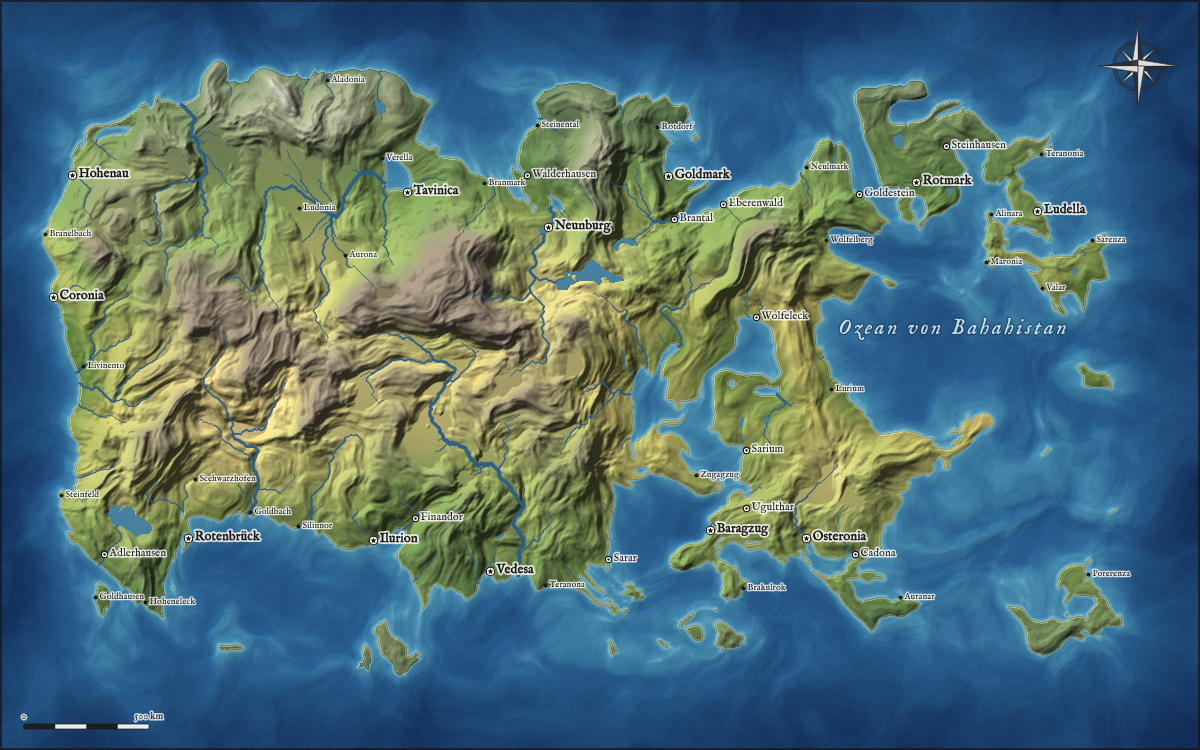
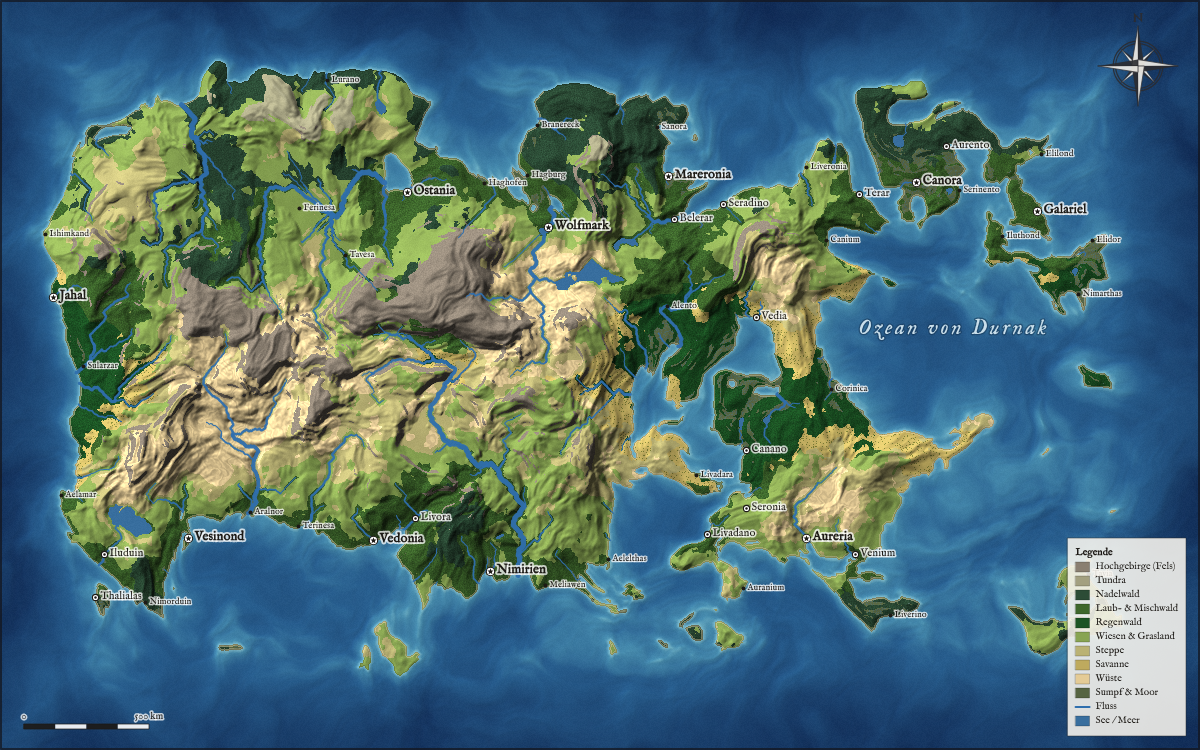
Geografische Karte: Landschaftsformen, kräftigere Flüsse, Legende
- Neue Biom-Einteilung (js/biomes.js): Gletscher, Hochgebirge, Tundra, Nadelwald,
  Laub-/Mischwald, Regenwald, Wiesen, Steppe, Savanne, Wüste, Sumpf
- Eigene Texturen: Baumkronen, Dünen, Wasserlachen, Baumgruppen in der Savanne
- Flussnähe macht Täler grüner (Auwälder); Feuchtigkeit mit mehr Kontrast
- Flüsse breiter und kräftiger, Relief etwas zurückgenommen
- Legende als neue Ebene, Landschaftsform in der Koordinatenanzeige

Claude-Session: https://claude.ai/code/session_01R1p4paFwYMXjgM74tCDT9S

diff --git a/js/render.js b/js/render.js
@@ -3,39 +3,6 @@
   'use strict';
   const FMM = window.FMM;
 
-  // ---------- Biom-Farbtabelle (Temperatur × Feuchtigkeit) ----------
-  const T_ANCH = [0, 0.15, 0.3, 0.5, 0.7, 0.85, 1.0];
-  const BIOME = [
-    // trocken          mittel            feucht
-    [[232, 236, 238], [232, 237, 240], [228, 235, 240]], // Eis
-    [[170, 164, 140], [146, 148, 124], [124, 134, 112]], // Tundra
-    [[166, 158, 114], [104, 120, 82], [60, 86, 58]], // Taiga / Steppe
-    [[186, 172, 114], [120, 144, 80], [62, 102, 52]], // gemäßigt
-    [[208, 186, 128], [158, 158, 90], [66, 108, 48]], // warm
-    [[224, 198, 142], [178, 164, 94], [48, 98, 40]], // heiß
-    [[230, 204, 148], [188, 168, 98], [40, 90, 36]], // tropisch
-  ];
-  const LUT_N = 64;
-  const LUT = new Uint8Array(LUT_N * LUT_N * 3);
-  (function buildLut() {
-    for (let ti = 0; ti < LUT_N; ti++) {
-      const t = ti / (LUT_N - 1);
-      let a = 0;
-      while (a < T_ANCH.length - 2 && t > T_ANCH[a + 1]) a++;
-      const ft = FMM.clamp((t - T_ANCH[a]) / (T_ANCH[a + 1] - T_ANCH[a]), 0, 1);
-      for (let mi = 0; mi < LUT_N; mi++) {
-        const m = mi / (LUT_N - 1);
-        const b = m < 0.5 ? 0 : 1;
-        const fm = m < 0.5 ? m / 0.5 : (m - 0.5) / 0.5;
-        for (let c = 0; c < 3; c++) {
-          const v0 = FMM.lerp(BIOME[a][b][c], BIOME[a][b + 1][c], fm);
-          const v1 = FMM.lerp(BIOME[a + 1][b][c], BIOME[a + 1][b + 1][c], fm);
-          LUT[(ti * LUT_N + mi) * 3 + c] = Math.round(FMM.lerp(v0, v1, ft));
-        }
-      }
-    }
-  })();
-
   // Wasserfarben nach Tiefe
   const OCEAN_STOPS = [
     [0, [104, 170, 192]],
@@ -53,7 +20,7 @@
   }
 
   const STYLE = {
-    geo: { river: '#2c5d86', riverAlpha: 0.95, text: '#1d1a16', halo: 'rgba(255,255,255,0.75)', sea: '#d8ecf5', seaHalo: 'rgba(20,50,80,0.55)', city: '#1d1a16', cityFill: '#ffffff', border: [120, 30, 30] },
+    geo: { river: '#2f6fae', riverAlpha: 0.95, text: '#1d1a16', halo: 'rgba(255,255,255,0.75)', sea: '#d8ecf5', seaHalo: 'rgba(20,50,80,0.55)', city: '#1d1a16', cityFill: '#ffffff', border: [120, 30, 30] },
     political: { river: '#4a80aa', riverAlpha: 0.9, text: '#2a221c', halo: 'rgba(250,246,236,0.85)', sea: '#356283', seaHalo: 'rgba(235,245,250,0.7)', city: '#2a221c', cityFill: '#ffffff', border: [70, 52, 48] },
     antique: { river: '#4f6878', riverAlpha: 0.9, text: '#3b2a18', halo: 'rgba(236,222,186,0.8)', sea: '#5a4a32', seaHalo: 'rgba(236,222,186,0.6)', city: '#3b2a18', cityFill: '#efe1bd', border: [120, 50, 40] },
   };
@@ -83,6 +50,21 @@
           this.paper[y * map.width + x] = FMM.fbm(noise, x / 90, y / 90, 4, 2.2, 0.55);
         }
       }
+      // Variationsrauschen für Landschaftsformen: großräumig (Grenzen) und fein (Baumkronen, Dünen)
+      const seed = (map.settings && map.settings.seed) || 'welt';
+      const nv = FMM.createNoise2D(FMM.makeRng(seed + 'veg'));
+      const nf = FMM.createNoise2D(FMM.makeRng(seed + 'fein'));
+      this.veg = new Float32Array(N);
+      this.fine = new Float32Array(N);
+      for (let y = 0; y < map.height; y++) {
+        for (let x = 0; x < map.width; x++) {
+          const i = y * map.width + x;
+          this.veg[i] = FMM.fbm(nv, x / 40, y / 40, 4, 2, 0.5);
+          this.fine[i] = nf(x / 2.2, y / 2.2) * 0.65 + nf(x / 1.1 + 40, y / 1.1) * 0.35;
+        }
+      }
+      this.biome = new Uint8Array(N).fill(255);
+      this.biomeCount = null;
       this.riverCache = null;
     }
 
@@ -101,8 +83,12 @@
       const L = map.view.layers;
       const h = map.heights, moist = map.moisture, sm = map.stateMap;
       const lake = d.lake, cd = d.coastDist, bd = d.borderDist, latT = d.latT;
-      const paper = this.paper;
+      const paper = this.paper, veg = this.veg, fine = this.fine, biome = this.biome;
+      const rdist = d.riverDist;
       const px = this.img.data;
+      const BI = FMM.BIOME_ID;
+      const forest = FMM.BIOMES.map((b) => FMM.isForest(b.id));
+      const slopeK = 40 * (W / 1200);
 
       const maxId = map.states.reduce((m, s) => Math.max(m, s.id), 0);
       const sr = new Uint8Array(maxId + 1), sg = new Uint8Array(maxId + 1), sb = new Uint8Array(maxId + 1);
@@ -116,10 +102,10 @@
       const zLand = 11 * (W / 1200) * (map.view.relief || 1);
       const zSea = 3 * (W / 1200);
       const lx = -0.62, ly = -0.62, lz = 0.48;
-      const reliefAmt = L.relief ? (style === 'geo' ? 1 : style === 'political' ? 0.7 : 0.9) : 0;
+      const reliefAmt = L.relief ? (style === 'geo' ? 0.8 : style === 'political' ? 0.7 : 0.9) : 0;
       const border = STYLE[style].border;
       const sty = style === 'geo' ? 0 : style === 'political' ? 1 : 2;
-      const maxShade = sty === 0 ? 1.35 : sty === 1 ? 1.15 : 1.12;
+      const maxShade = sty === 0 ? 1.25 : sty === 1 ? 1.15 : 1.12;
 
       for (let y = y0; y < y1; y++) {
         const yu = y > 0 ? y - 1 : y, yd = y < H - 1 ? y + 1 : y;
@@ -170,22 +156,45 @@
             }
             shade = 1 + (shade - 1) * 0.5;
           } else if (isLake) {
-            if (sty === 0) { r = 72; g = 128; b = 160; }
+            if (sty === 0) { r = 56; g = 110; b = 158; }
             else if (sty === 1) { r = 150; g = 192; b = 214; }
             else { r = 180; g = 170; b = 140; }
           } else {
             const t = FMM.cellTemp(lt, hv);
             if (sty === 0) {
-              const ti = Math.max(0, Math.min(LUT_N - 1, (t * (LUT_N - 1)) | 0));
-              const mi = Math.max(0, Math.min(LUT_N - 1, (moist[i] * (LUT_N - 1)) | 0));
-              const k = (ti * LUT_N + mi) * 3;
-              r = LUT[k]; g = LUT[k + 1]; b = LUT[k + 2];
-              // Fels im Hochgebirge
-              const rock = FMM.smoothstep(0.42, 0.8, hv);
-              if (rock > 0) { r += (132 - r) * rock; g += (120 - g) * rock; b += (104 - b) * rock; }
-              // Schnee
-              const snow = FMM.smoothstep(0.11, 0.03, t);
-              if (snow > 0) { r += (246 - r) * snow; g += (248 - g) * snow; b += (250 - b) * snow; }
+              // Landschaftsform bestimmen
+              const gx = Math.max(0, h[xr]) - Math.max(0, h[xl]);
+              const gy = Math.max(0, h[id]) - Math.max(0, h[iu]);
+              const slope = Math.sqrt(gx * gx + gy * gy) * slopeK;
+              const v = veg[i], fn = fine[i];
+              const bi = FMM.classifyBiome(t, moist[i], hv, slope, rdist[i], v);
+              biome[i] = bi;
+              const c = FMM.BIOMES[bi].color;
+              r = c[0]; g = c[1]; b = c[2];
+              if (forest[bi]) {
+                // Baumkronen-Struktur
+                const k = 0.84 + fn * 0.2;
+                r *= k; g *= k; b *= k;
+              } else if (bi === BI.wueste) {
+                // Dünen
+                const k = 0.95 + 0.06 * Math.sin(x * 0.55 + y * 0.2 + v * 18);
+                r *= k; g *= k; b *= k;
+              } else if (bi === BI.sumpf) {
+                // Wasserlachen
+                if (fn > 0.3) { r = (r + 70) / 2; g = (g + 108) / 2; b = (b + 124) / 2; }
+              } else if (bi === BI.savanne) {
+                // vereinzelte Baumgruppen
+                if (fn > 0.5) { r *= 0.62; g *= 0.7; b *= 0.55; }
+              } else if (bi === BI.fels) {
+                const k = 0.94 + fn * 0.08;
+                r *= k; g *= k; b *= k;
+              } else if (bi !== BI.gletscher) {
+                const k = 0.95 + v * 0.07 + fn * 0.03;
+                r *= k; g *= k; b *= k;
+              }
+              // Schneekappen auf Gipfeln
+              const snow = FMM.smoothstep(0.12, 0.05, t) * (bi === BI.fels ? 1 : 0.6);
+              if (snow > 0 && bi !== BI.gletscher) { r += (244 - r) * snow; g += (247 - g) * snow; b += (250 - b) * snow; }
               // Strand
               if (hv < 0.012 && cd[i] <= 1 && t > 0.3) { r = (r + 214) / 2; g = (g + 200) / 2; b = (b + 160) / 2; }
             } else if (sty === 1) {
@@ -240,6 +249,7 @@
         }
       }
       this.bctx.putImageData(this.img, 0, 0, x0, y0, x1 - x0, y1 - y0);
+      if (!rect) this.biomeCount = null;
     }
 
     // ---------- Flüsse als Path2D nach Breitenstufen ----------
@@ -293,7 +303,7 @@
         ctx.lineJoin = 'round';
         const rc = this.riverCache;
         for (let k = 0; k < rc.buckets.length; k++) {
-          ctx.lineWidth = rc.widths[k];
+          ctx.lineWidth = rc.widths[k] * (map.view.style === 'geo' ? 1.35 : 1);
           ctx.stroke(rc.buckets[k]);
         }
         ctx.globalAlpha = 1;
@@ -346,6 +356,7 @@
         for (const c of order) this.drawCity(ctx, map, c, unit, st, opts, view);
       }
 
+      if (L.legend) this.drawLegend(ctx, map, unit, st);
       if (L.compass) this.drawCompass(ctx, W - 62 * unit, 66 * unit, 40 * unit, map.view.style);
       if (L.scale) this.drawScale(ctx, map, unit, st);
       this.drawFrame(ctx, map, unit);
@@ -492,6 +503,57 @@
       ctx.restore();
       this.drawText(ctx, '0', x, y - 7 * unit, { font: `${10 * unit}px ${FONT_TEXT}`, color: st.text, halo: st.halo, haloWidth: 3 * unit });
       this.drawText(ctx, nice.toLocaleString('de-DE') + ' km', x + len, y - 7 * unit, { font: `${10 * unit}px ${FONT_TEXT}`, color: st.text, halo: st.halo, haloWidth: 3 * unit });
+    }
+
+    // Legende der Landschaftsformen (nur die auf der Karte vorkommenden)
+    drawLegend(ctx, map, unit, st) {
+      if (map.view.style !== 'geo') return;
+      if (!this.biomeCount) this.countBiomes(map);
+      const total = this.biomeCount.reduce((a, b) => a + b, 0) || 1;
+      const items = FMM.BIOMES.filter((b) => this.biomeCount[b.id] / total > 0.004)
+        .map((b) => ({ name: b.name, color: `rgb(${b.color.join(',')})` }));
+      items.push({ name: 'Fluss', line: true }, { name: 'See / Meer', color: 'rgb(56,110,158)' });
+      const fs = 10 * unit, row = 14 * unit, pad = 8 * unit, sw = 14 * unit;
+      ctx.save();
+      ctx.font = `${fs}px ${FONT_TEXT}`;
+      const tw = Math.max(...items.map((it) => ctx.measureText(it.name).width), ctx.measureText('Legende').width);
+      const bw = pad * 2 + sw + 6 * unit + tw;
+      const bh = pad * 2 + row * (items.length + 1);
+      const x = map.width - bw - 14 * unit, y = map.height - bh - 14 * unit;
+      ctx.fillStyle = 'rgba(248,245,238,0.88)';
+      ctx.strokeStyle = 'rgba(40,40,40,0.6)';
+      ctx.lineWidth = 0.8 * unit;
+      ctx.fillRect(x, y, bw, bh);
+      ctx.strokeRect(x, y, bw, bh);
+      ctx.fillStyle = st.text;
+      ctx.textBaseline = 'middle';
+      ctx.font = `700 ${fs}px ${FONT_TEXT}`;
+      ctx.fillText('Legende', x + pad, y + pad + row / 2);
+      ctx.font = `${fs}px ${FONT_TEXT}`;
+      items.forEach((it, k) => {
+        const yy = y + pad + row * (k + 1);
+        if (it.line) {
+          ctx.strokeStyle = st.river;
+          ctx.lineWidth = 2 * unit;
+          ctx.beginPath(); ctx.moveTo(x + pad, yy + row / 2); ctx.lineTo(x + pad + sw, yy + row / 2); ctx.stroke();
+        } else {
+          ctx.fillStyle = it.color;
+          ctx.fillRect(x + pad, yy + 2 * unit, sw, row - 4 * unit);
+          ctx.strokeStyle = 'rgba(0,0,0,0.35)';
+          ctx.lineWidth = 0.6 * unit;
+          ctx.strokeRect(x + pad, yy + 2 * unit, sw, row - 4 * unit);
+        }
+        ctx.fillStyle = st.text;
+        ctx.fillText(it.name, x + pad + sw + 6 * unit, yy + row / 2);
+      });
+      ctx.restore();
+    }
+
+    countBiomes(map) {
+      const cnt = new Array(FMM.BIOMES.length).fill(0);
+      const bm = this.biome, h = map.heights;
+      for (let i = 0; i < bm.length; i++) if (h[i] >= 0 && bm[i] < cnt.length) cnt[bm[i]]++;
+      this.biomeCount = cnt;
     }
 
     drawFrame(ctx, map, unit) {

diff --git a/js/biomes.js b/js/biomes.js
@@ -1,0 +1,47 @@
+/* Landschaftsformen (Biome): Einteilung nach Temperatur, Feuchtigkeit, Höhe, Hangneigung und Flussnähe */
+(function () {
+  'use strict';
+  const FMM = window.FMM;
+
+  // Reihenfolge = Reihenfolge in der Legende
+  const BIOMES = [
+    { key: 'gletscher', name: 'Gletscher & Eis', color: [236, 241, 245] },
+    { key: 'fels', name: 'Hochgebirge (Fels)', color: [138, 127, 113] },
+    { key: 'tundra', name: 'Tundra', color: [163, 160, 128] },
+    { key: 'taiga', name: 'Nadelwald', color: [44, 76, 54] },
+    { key: 'wald', name: 'Laub- & Mischwald', color: [62, 103, 44] },
+    { key: 'regenwald', name: 'Regenwald', color: [28, 84, 36] },
+    { key: 'wiese', name: 'Wiesen & Grasland', color: [136, 164, 82] },
+    { key: 'steppe', name: 'Steppe', color: [186, 178, 116] },
+    { key: 'savanne', name: 'Savanne', color: [190, 170, 94] },
+    { key: 'wueste', name: 'Wüste', color: [228, 203, 150] },
+    { key: 'sumpf', name: 'Sumpf & Moor', color: [86, 100, 66] },
+  ];
+  const ID = {};
+  BIOMES.forEach((b, i) => { ID[b.key] = i; b.id = i; });
+  const FORESTS = new Uint8Array(BIOMES.length);
+  FORESTS[ID.taiga] = FORESTS[ID.wald] = FORESTS[ID.regenwald] = 1;
+
+  /**
+   * t: Temperatur (inkl. Höhe), m: Feuchtigkeit 0..1, h: Höhe 0..1,
+   * slope: Hangneigung (≈0 flach, ≥1 steil), rd: Abstand zum nächsten Fluss in Zellen,
+   * v: großräumiges Variationsrauschen (-1..1) für natürliche, unregelmäßige Grenzen
+   */
+  function classify(t, m, h, slope, rd, v) {
+    if (t < 0.05 + v * 0.02) return ID.gletscher;
+    if (h > 0.7 + v * 0.06 || (h > 0.42 && slope > 1.5 + v * 0.3)) return t < 0.14 ? ID.gletscher : ID.fels;
+    // Flüsse machen ihre Umgebung feuchter (Auwälder, grüne Flusstäler)
+    let wet = m + v * 0.16;
+    if (rd < 5) wet += (5 - rd) * 0.045;
+    if (t < 0.2) return ID.tundra;
+    if (h < 0.08 && slope < 0.25 && wet > 0.76 && t > 0.3) return ID.sumpf;
+    if (t < 0.45) return wet > 0.5 ? ID.taiga : wet > 0.3 ? ID.wiese : ID.steppe;
+    if (t < 0.72) return wet > 0.56 ? ID.wald : wet > 0.36 ? ID.wiese : wet > 0.24 ? ID.steppe : ID.wueste;
+    return wet > 0.64 ? ID.regenwald : wet > 0.44 ? ID.savanne : wet > 0.34 ? ID.steppe : ID.wueste;
+  }
+
+  FMM.BIOMES = BIOMES;
+  FMM.BIOME_ID = ID;
+  FMM.isForest = (id) => FORESTS[id] === 1;
+  FMM.classifyBiome = classify;
+})();

diff --git a/js/generator.js b/js/generator.js
@@ -189,7 +189,9 @@
         const n = FMM.fbm(noise, (x / H) * 2.4, (y / H) * 2.4, 5, 2, 0.5) * 0.5 + 0.5;
         const cd = map.heights[i] < 0 ? 0 : coastDist[i];
         const coast = Math.exp(-cd / reach);
-        m[i] = FMM.clamp(n * 0.62 + coast * 0.42 - 0.05, 0, 1);
+        // Kontrast verstärken → echte Trockengebiete (Wüsten, Steppen) und feuchte Regionen
+        const nc = FMM.clamp(0.5 + (n - 0.5) * 1.8, 0, 1);
+        m[i] = FMM.clamp(nc * 0.66 + coast * 0.38 - 0.06, 0, 1);
       }
     }
     return m;
@@ -479,7 +481,7 @@
   };
 
   FMM.STYLE_PRESETS = {
-    geo: { relief: true, rivers: true, borders: false, stateFill: false, cities: true, labels: true, stateLabels: false, grid: false, compass: true, scale: true },
+    geo: { relief: true, rivers: true, borders: false, stateFill: false, cities: true, labels: true, stateLabels: false, grid: false, compass: true, scale: true, legend: true },
     political: { relief: true, rivers: true, borders: true, stateFill: true, cities: true, labels: true, stateLabels: true, grid: false, compass: true, scale: true },
     antique: { relief: true, rivers: true, borders: true, stateFill: false, cities: true, labels: true, stateLabels: true, grid: true, compass: true, scale: true },
   };

diff --git a/js/derive.js b/js/derive.js
@@ -146,6 +146,27 @@
       if (path.length >= 3) rivers.push(path);
     }
 
+    // Abstand zum nächsten Fluss/See (für Auwälder und grüne Flusstäler), max. 8 Zellen
+    const riverDist = new Uint8Array(N).fill(255);
+    const q = new Int32Array(N);
+    let qh = 0, qt = 0;
+    for (let i = 0; i < N; i++) if (isRiver[i] || lake[i]) { riverDist[i] = 0; q[qt++] = i; }
+    while (qh < qt) {
+      const c = q[qh++];
+      const dc = riverDist[c];
+      if (dc >= 8) continue;
+      const cx = c % W, cy = (c / W) | 0;
+      for (let k = 0; k < 4; k++) {
+        const nx = cx + FMM.N4[k][0], ny = cy + FMM.N4[k][1];
+        if (nx < 0 || ny < 0 || nx >= W || ny >= H) continue;
+        const n = ny * W + nx;
+        if (riverDist[n] !== 255) continue;
+        riverDist[n] = dc + 1;
+        q[qt++] = n;
+      }
+    }
+
+    d.riverDist = riverDist;
     d.filled = filled;
     d.down = down;
     d.flux = flux;

diff --git a/index.html b/index.html
@@ -90,6 +90,7 @@
           <label><input type="checkbox" data-layer="grid"> Gradnetz</label>
           <label><input type="checkbox" data-layer="compass"> Kompass</label>
           <label><input type="checkbox" data-layer="scale"> Maßstab</label>
+          <label><input type="checkbox" data-layer="legend"> Legende</label>
         </div>
         <label class="row">Relief-Stärke
           <input id="reliefStrength" type="range" min="0.2" max="2.5" step="0.1" value="1">
@@ -186,6 +187,7 @@
 
   <script src="js/core.js"></script>
   <script src="js/names.js"></script>
+  <script src="js/biomes.js"></script>
   <script src="js/derive.js"></script>
   <script src="js/generator.js"></script>
   <script src="js/render.js"></script>

diff --git a/js/app.js b/js/app.js
@@ -376,7 +376,11 @@
       let txt;
       if (h < 0) txt = 'Meer · Tiefe ' + Math.round(-h * 8000).toLocaleString('de-DE') + ' m';
       else if (this.d.lake[i]) txt = 'See';
-      else txt = 'Höhe ' + Math.round(h * 6000).toLocaleString('de-DE') + ' m';
+      else {
+        txt = 'Höhe ' + Math.round(h * 6000).toLocaleString('de-DE') + ' m';
+        const b = FMM.BIOMES[this.renderer.biome[i]];
+        if (b && this.map.view.style === 'geo') txt += ' · ' + b.name;
+      }
       const st = this.stateAt(x, y);
       if (st) txt += ' · ' + st.form + ' ' + st.name;
       $('coords').textContent = txt;

diff --git a/README.md b/README.md
@@ -24,16 +24,16 @@ Die App läuft komplett im Browser. Es gibt keinen Server, keinen Build-Schritt 
 - Landformen: mehrere Kontinente, Superkontinent, große Insel, Archipel, Küstenregion oder freies Rauschen
 - Einstellbar: Landanteil, Gebirge, Strukturgröße, Flussdichte, Klima, Anzahl Staaten und Städte
 - **Gleicher Seed = gleiche Welt**
-- Klima und Biome (Eis, Tundra, Taiga, Wälder, Steppe, Wüste, Regenwald), Fels und Schnee im Hochgebirge
+- Klima und Landschaftsformen: Gletscher, Hochgebirge, Tundra, Nadelwald, Laub- und Mischwald, Regenwald, Wiesen, Steppe, Savanne, Wüste, Sumpf. Entlang von Flüssen entstehen grüne Täler und Auwälder.
 - **Flüsse und Seen** aus einer echten Abflusssimulation (Senkenfüllung und Abflussakkumulation)
 - Staaten breiten sich von ihren Hauptstädten über das Gelände aus. Gebirge und Flüsse werden dabei zu natürlichen Grenzen.
 - Namensgenerator mit sechs Sprachstilen (nordisch, elbisch, romanisch, germanisch, orientalisch, rau) für Staaten, Städte und Meere
 
 ### Darstellungsstile
-- **Geografisch:** Satelliten-ähnliches Relief mit Biomfarben und Meerestiefen
+- **Geografisch:** Landschaftsformen mit eigener Textur (Baumkronen in Wäldern, Dünen in Wüsten, Wasserlachen in Sümpfen), dazu Relief, Flüsse, Meerestiefen und eine Legende
 - **Politisch:** Staatsfarben, Grenzen und Staatsnamen, die sich der Form des Staats anpassen
 - **Antik:** Pergament-Look mit Gradnetz, Rahmen und Vignette
-- Ebenen einzeln schaltbar: Relief, Flüsse, Staatsfarben, Grenzen, Städte, Staatsnamen, Texte, Gradnetz, Kompass, Maßstab
+- Ebenen einzeln schaltbar: Relief, Flüsse, Staatsfarben, Grenzen, Städte, Staatsnamen, Texte, Gradnetz, Kompass, Maßstab, Legende
 
 ### Bearbeiten
 | Werkzeug | Taste | Funktion |
@@ -63,6 +63,7 @@ index.html        Oberfläche
 css/style.css     Gestaltung
 js/core.js        Zufall (Seed), Simplex-Rauschen, Heap, Hilfsfunktionen
 js/names.js       Namensgenerator
+js/biomes.js      Landschaftsformen (Einteilung und Farben)
 js/derive.js      Klima, Flüsse und Seen, Küstenabstand, Staatsstatistiken
 js/generator.js   Weltgenerierung (Gelände, Feuchtigkeit, Staaten, Städte, Meere)
 js/render.js      Darstellung (Rasterbild und Vektorebene)
